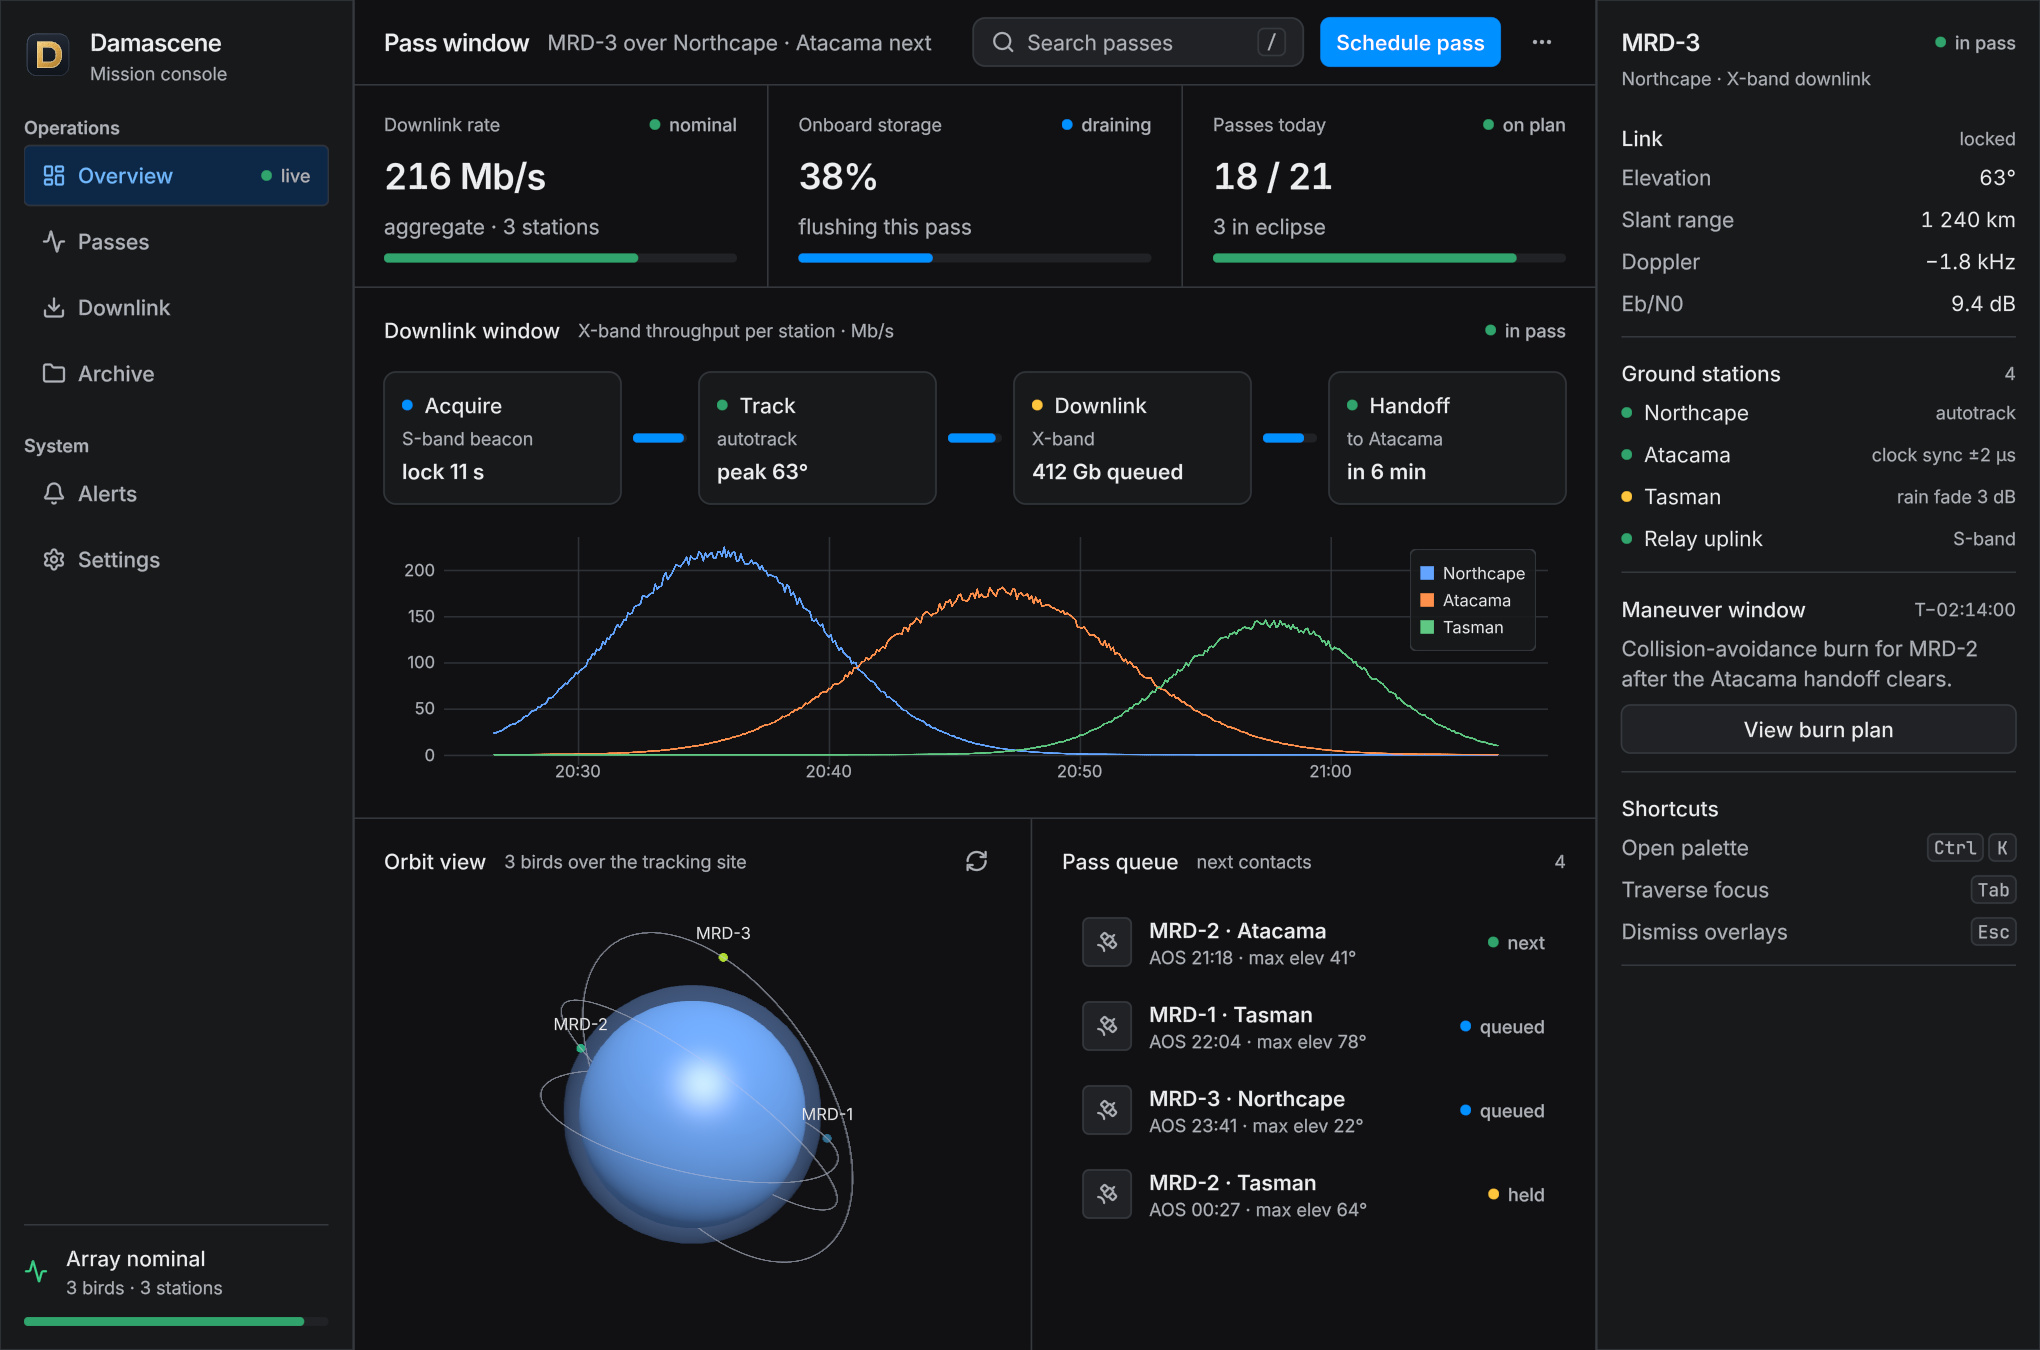
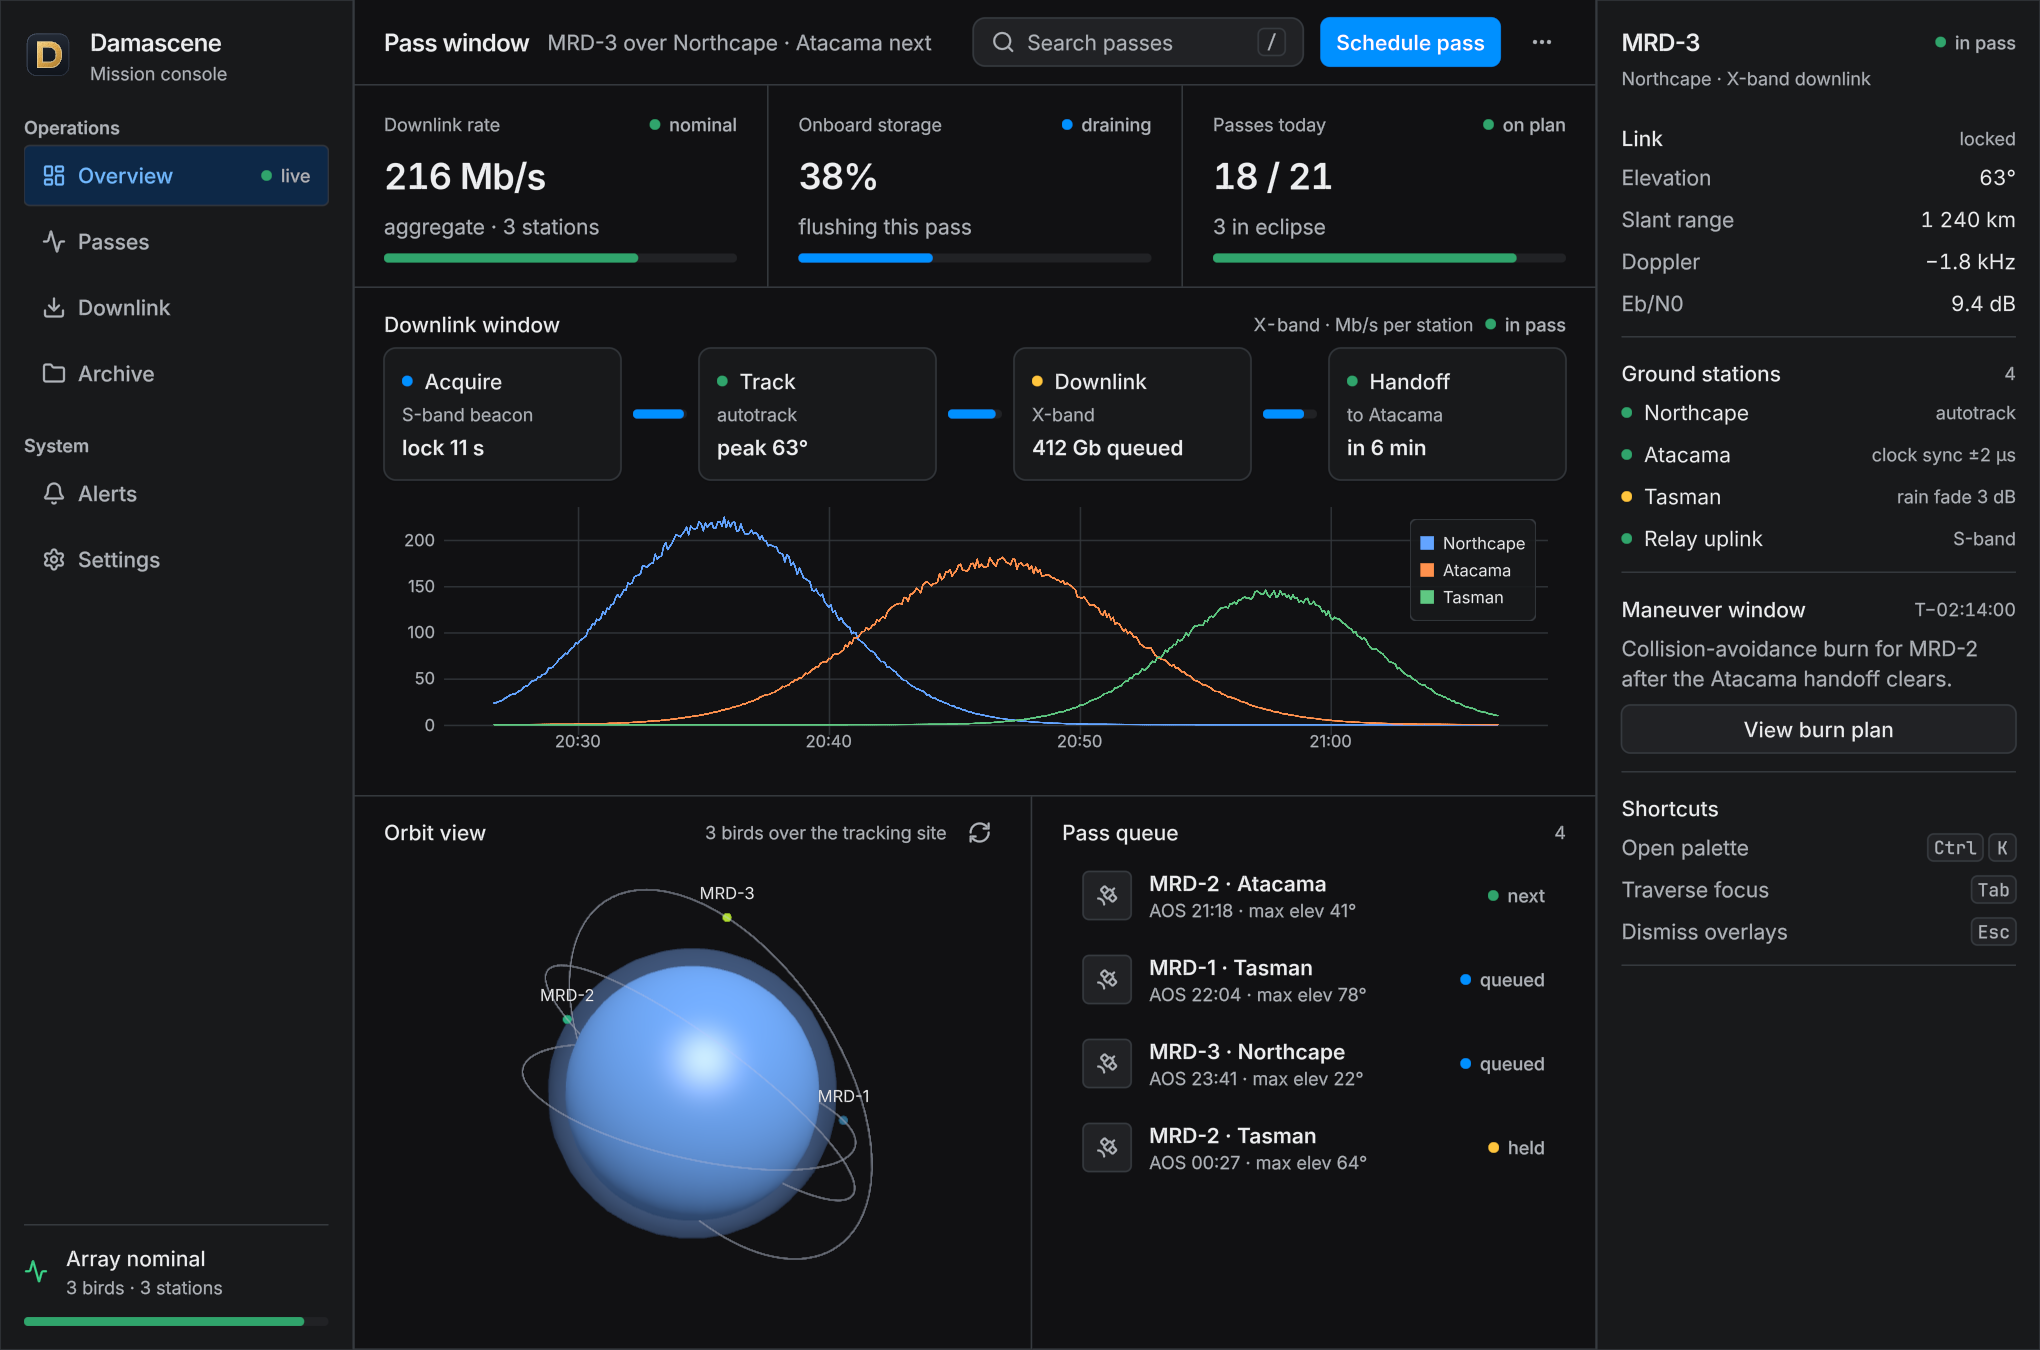
section: a section given a height shares it with its body
A section's body always hugged, so a section could not hold what takes
a pane's remaining height — a scroll inside an inspector, a canvas —
and the hero's main-pane regions were a local helper copying the
section header.

The body is Fill-height now. In the usual hug-height section a Fill
child resolves to its content, so nothing moves; a section given
.height(Size::Fill(1.0)) or a fixed height hands its body what the
header leaves. An empty body stays Hug. No new API.

The hero's Downlink window, Orbit view and Pass queue are stock
section_with regions (caption in the value slot, controls in trailing);
the local region helper is gone.

diff --git a/crates/damascene-core/src/widgets/section.rs b/crates/damascene-core/src/widgets/section.rs
@@ -56,8 +56,13 @@
 //! │   ├── text   value   caption MUTED_FOREGROUND tnum           (opts.value)
 //! │   ├── row    trailing  gap=SPACE_1  controls stamped `Xs`     (opts.trailing)
 //! │   └── icon   chevron-down | chevron-right  ICON_SM muted     (opts.collapsible)
-//! └── section_body    column  pl=0  pb=SPACE_3  gap=SPACE_2  role=group   (open, or never folds)
+//! └── section_body    column  fill-height  pl=0  pb=SPACE_3  gap=SPACE_2  role=group   (open, or never folds)
 //! ```
+//!
+//! A section hugs its content. Give it a height —
+//! `section(..).height(Size::Fill(1.0))` in a pane, or a fixed one —
+//! and the body takes what the header leaves, so a `scroll` or a
+//! canvas inside it can fill.
 //!
 //! A folding section's header is keyed, focusable, `role=button` with
 //! `aria-expanded`; its body is included or dropped per rebuild, with
@@ -259,7 +264,17 @@ where
 
     let mut children = vec![header];
     if open.unwrap_or(true) {
-        children.push(section_body(body));
+        let mut body = section_body(body);
+        // `Fill`, so a section that is given a height hands its body
+        // what the header leaves — the list that scrolls inside an
+        // inspector, the canvas that takes a pane. In the usual
+        // hug-height section a `Fill` child is its content height, so
+        // nothing changes there. An empty body stays `Hug`: it has no
+        // content to be, and a collapsed `Fill` is a lint finding.
+        if !body.children.is_empty() {
+            body = body.height(Size::Fill(1.0));
+        }
+        children.push(body);
     }
     let mut el = column(children)
         .at_loc(caller)
@@ -284,6 +299,63 @@ mod tests {
 
     fn header(s: &El) -> &El {
         &s.children[0]
+    }
+
+    /// A section hugs by default and its body is its content; given a
+    /// height, the body takes what the header leaves, so a filling
+    /// child (a scroll, a canvas) has something to fill.
+    #[test]
+    fn a_section_given_a_height_shares_it_with_its_body() {
+        let filler = || {
+            El::new(Kind::Custom("canvas"))
+                .width(Size::Fill(1.0))
+                .height(Size::Fill(1.0))
+        };
+        let lay = |mut root: El| {
+            let mut state = UiState::new();
+            layout(&mut root, &mut state, Rect::new(0.0, 0.0, 320.0, 400.0));
+            let report = lint(&root, &state, &crate::theme::Theme::default());
+            assert!(
+                !report
+                    .findings
+                    .iter()
+                    .any(|f| f.kind == FindingKind::CollapsedFillChild),
+                "{}",
+                report.text()
+            );
+            root
+        };
+        let frame = |child: El| {
+            crate::column([child])
+                .padding(tokens::SPACE_4)
+                .width(Size::Fixed(320.0))
+                .height(Size::Fixed(400.0))
+        };
+
+        let hug = lay(frame(section("Identity", [text("Author"), text("Date")])));
+        let s = &hug.children[0];
+        let content = s.children[1].children[0].computed_rect.h * 2.0 + tokens::SPACE_2;
+        assert_eq!(s.children[1].computed_rect.h, content + tokens::SPACE_3);
+        assert!(s.computed_rect.h < 120.0, "a plain section still hugs");
+
+        let fill = lay(frame(
+            section("Orbit view", [filler()]).height(Size::Fill(1.0)),
+        ));
+        let s = &fill.children[0];
+        let inner = 400.0 - 2.0 * tokens::SPACE_4;
+        assert_eq!(s.computed_rect.h, inner);
+        let (header, body) = (&s.children[0], &s.children[1]);
+        // The section's own bottom rule comes out of its content box.
+        assert_eq!(body.computed_rect.h, inner - header.computed_rect.h - 1.0);
+        assert_eq!(
+            body.children[0].computed_rect.h,
+            body.computed_rect.h - tokens::SPACE_3,
+            "the canvas fills the body down to its bottom padding"
+        );
+
+        // An empty body has no content to be: it stays out of the way.
+        let empty = lay(frame(section("Empty", Vec::<El>::new())));
+        assert_eq!(empty.children[0].children[1].height, Size::Hug);
     }
 
     #[test]

diff --git a/crates/damascene-fixtures/src/hero.rs b/crates/damascene-fixtures/src/hero.rs
@@ -328,10 +328,11 @@ impl HeroDemo {
             spec = spec.add_mark(line(series).width(2.0).label(*name));
         }
 
-        region(
+        pane_section(section_with(
             "Downlink window",
-            "X-band throughput per station · Mb/s",
-            [badge("in pass").success()],
+            SectionOpts::default()
+                .value("X-band · Mb/s per station")
+                .trailing([badge("in pass").success()]),
             [
                 row([
                     stage("Acquire", "S-band beacon", "lock 11 s", tokens::INFO),
@@ -346,8 +347,7 @@ impl HeroDemo {
                 .align(Align::Center),
                 plot(spec).key("hero-downlink").height(Size::Fixed(190.0)),
             ],
-        )
-        .border_b()
+        ))
     }
 
     /// The real `chart3d` widget: planet, translucent atmosphere shell,
@@ -396,57 +396,28 @@ impl HeroDemo {
                 distance: 4.6,
             });
 
-        region(
+        pane_section(section_with(
             "Orbit view",
-            "3 birds over the tracking site",
-            [icon_button(IconName::RefreshCw)
-                .ghost()
-                .small()
-                .key("hero-orbit-reset")
-                .aria_label("Reset view")],
-            // Fill: the scene takes whatever height the pane has.
+            SectionOpts::default()
+                .value("3 birds over the tracking site")
+                .trailing([icon_button(IconName::RefreshCw)
+                    .ghost()
+                    .key("hero-orbit-reset")
+                    .aria_label("Reset view")]),
             [chart3d(scene).key("hero-orbit")],
-        )
+        ))
+        // Fill: the section takes the row's height and hands its body
+        // — the scene — what the header leaves.
+        .height(Size::Fill(1.0))
         .width(Size::Fill(1.2))
     }
 }
 
-/// A titled region of the main pane: the header a `section` carries
-/// (label-rung title, a muted caption, trailing controls) over a body
-/// that may fill. `section` itself is the hug-height production the
-/// inspector uses; these regions share the pane's height, so they are
-/// composed here.
-fn region<T, B>(title: &'static str, caption: &'static str, trailing: T, body: B) -> El
-where
-    T: IntoIterator<Item = El>,
-    B: IntoIterator<Item = El>,
-{
-    let mut header = vec![
-        text(title).label(),
-        text(caption)
-            .caption()
-            .muted()
-            .ellipsis()
-            .width(Size::Fill(1.0)),
-    ];
-    header.extend(trailing);
-    let mut children = vec![
-        row(header)
-            .gap(tokens::SPACE_3)
-            .align(Align::Center)
-            .height(Size::Fixed(tokens::CONTROL_HEIGHT)),
-    ];
-    children.extend(body);
-    column(children)
-        .gap(tokens::SPACE_3)
-        .padding(Sides {
-            left: PANE_INSET,
-            right: PANE_INSET,
-            top: tokens::SPACE_3,
-            bottom: tokens::SPACE_4,
-        })
-        .width(Size::Fill(1.0))
-        .height(Size::Fill(1.0))
+/// A `section` in the main pane: the pane's regions run edge to edge,
+/// so the section's own hairline spans the pane and its content takes
+/// the shared inset.
+fn pane_section(section: El) -> El {
+    section.px(PANE_INSET).pt(tokens::SPACE_2)
 }
 
 fn top_bar() -> El {
@@ -548,10 +519,9 @@ fn queue_region() -> El {
         ])
         .key(key)
     };
-    region(
+    pane_section(section_with(
         "Pass queue",
-        "next contacts",
-        [text("4").caption().muted().tabular_numerals()],
+        SectionOpts::default().count(4),
         [item_group([
             pass(
                 "pass:mrd-2-atacama",
@@ -578,7 +548,8 @@ fn queue_region() -> El {
                 badge("held").warning(),
             ),
         ])],
-    )
+    ))
+    .height(Size::Fill(1.0))
 }
 
 /// The right-hand pane: the selected pass, as hairline-ruled
